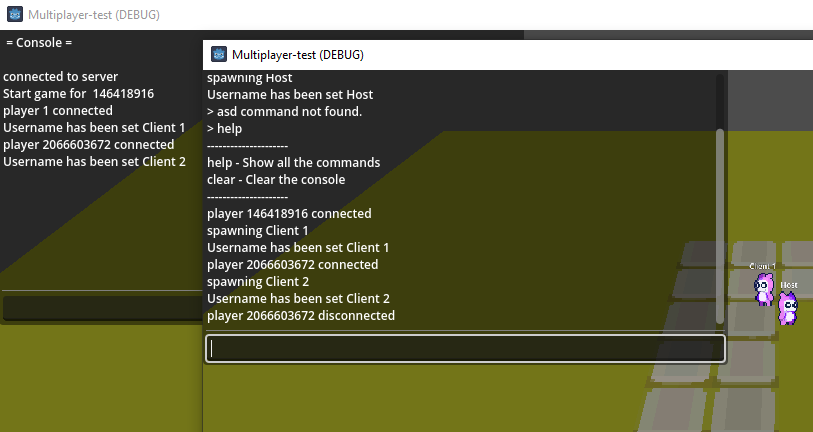
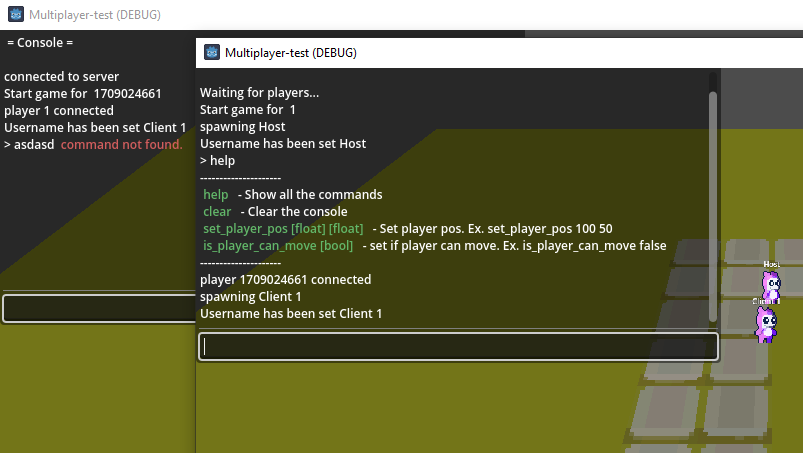
add/remove custom commands

Changed region(s): [[0.0, 0.0, 1.0, 1.0], [0.0311, 0.4514, 0.1245, 0.5718]]

diff --git a/README.md b/README.md
@@ -1,4 +1,4 @@
-# Dev Console for Godot 4.x
+# Dev Console for Godot 4.2.x
 
 Hey there! Check out this handy in-game dev console I made for Godot. It's super easy to set up and perfect for debugging multiplayer games.
 
@@ -14,7 +14,7 @@ Give it a try and see how much smoother your development process can be!
 - Simple setup and usage
 - Toggle the console with the press of the ` key
 - Navigate previous commands with ease using the arrow keys
-- Define custom commands for your game (Currently in Development)
+- Define custom commands for your game
 
 ## Installation
 
@@ -37,8 +37,42 @@ From the inspector you can set is the console should be visible by default when 
   Console.print('This is my variable', my_variable)
   Console.print('I', 'can', 'pass', 'up', 'to', 12, 'params')
 ```
+
+## Add custom commands
+```gdscript
+	Console.add_command(
+		command_name: String,
+		function: Callable,
+		function_arguments_if_needed: Array[String],
+		description_to_show_in_help: String
+	)
+```
+### Examples
+```gdscript
+	Console.add_command(
+		'set_player_pos',
+		_set_player_pos,
+		['float', 'float'],
+		'Set player pos. Ex. set_player_pos 100 50'
+	)
+	func _set_player_pos(x: float, y: float):
+		position = Vector2(x, y)
+```
+```gdscript
+	Console.add_command(
+		'is_player_can_move',
+		func(val: bool): _is_player_can_move = val,
+		['bool'],
+		'set if player can move. Ex. is_player_can_move false'
+	)
+```
+### Remove command
+```gdscript
+	Console.remove_command('is_player_can_move')
+```
+
 ## Future plans
-* Let user to add custom commands
+* Implement Autocomplete functionality
 * Add checkbox to select if the console should be available in release build
 
 ## License
